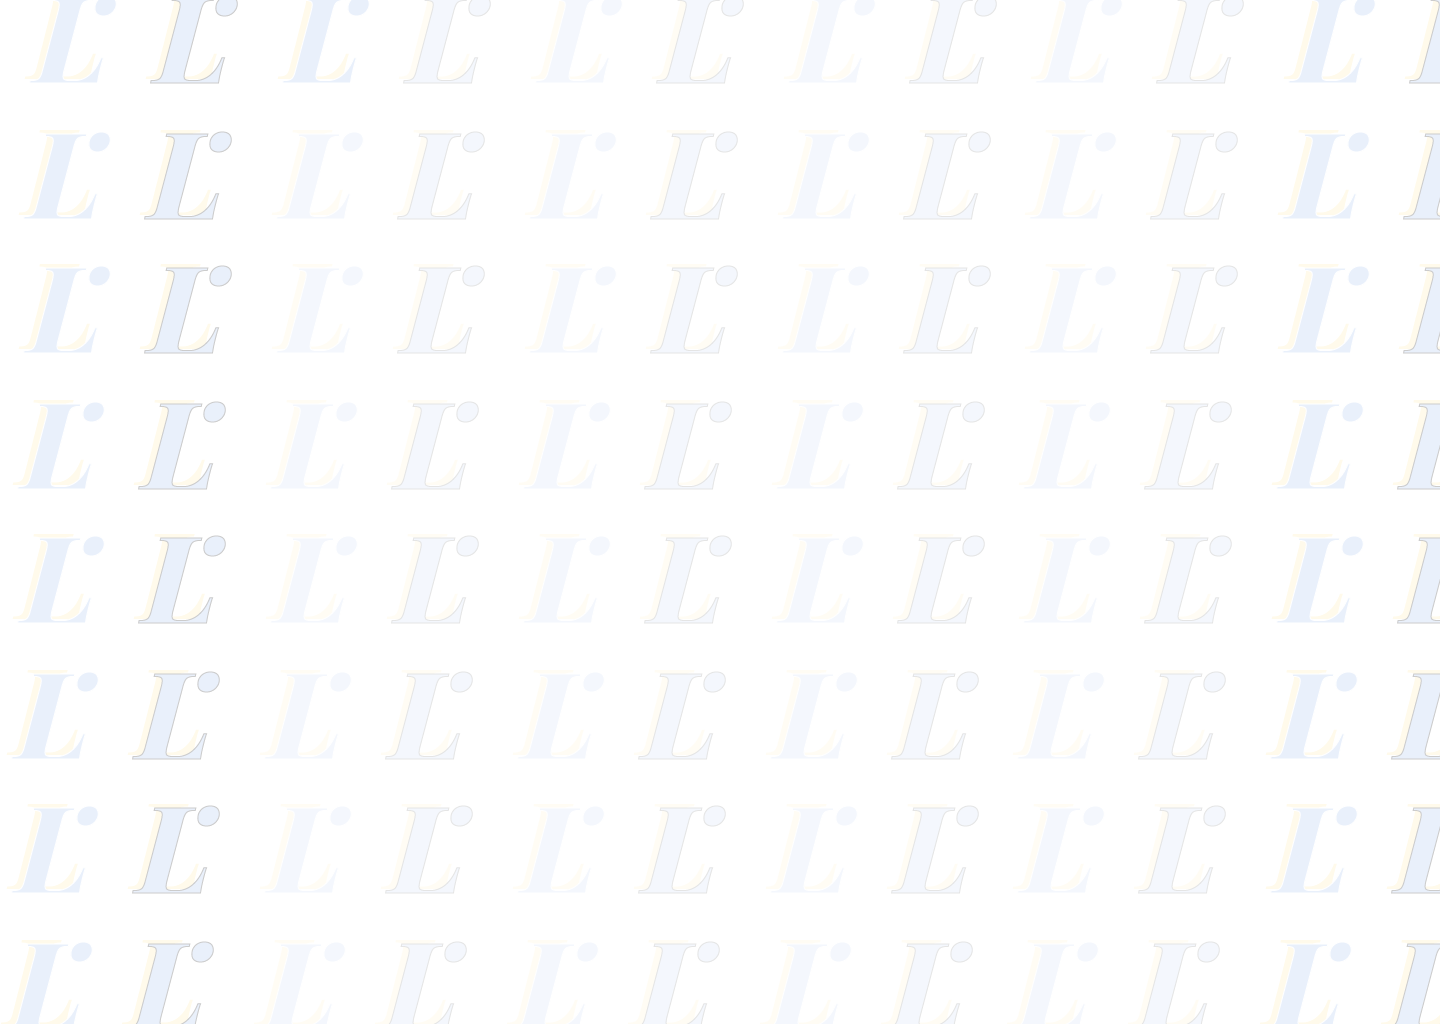
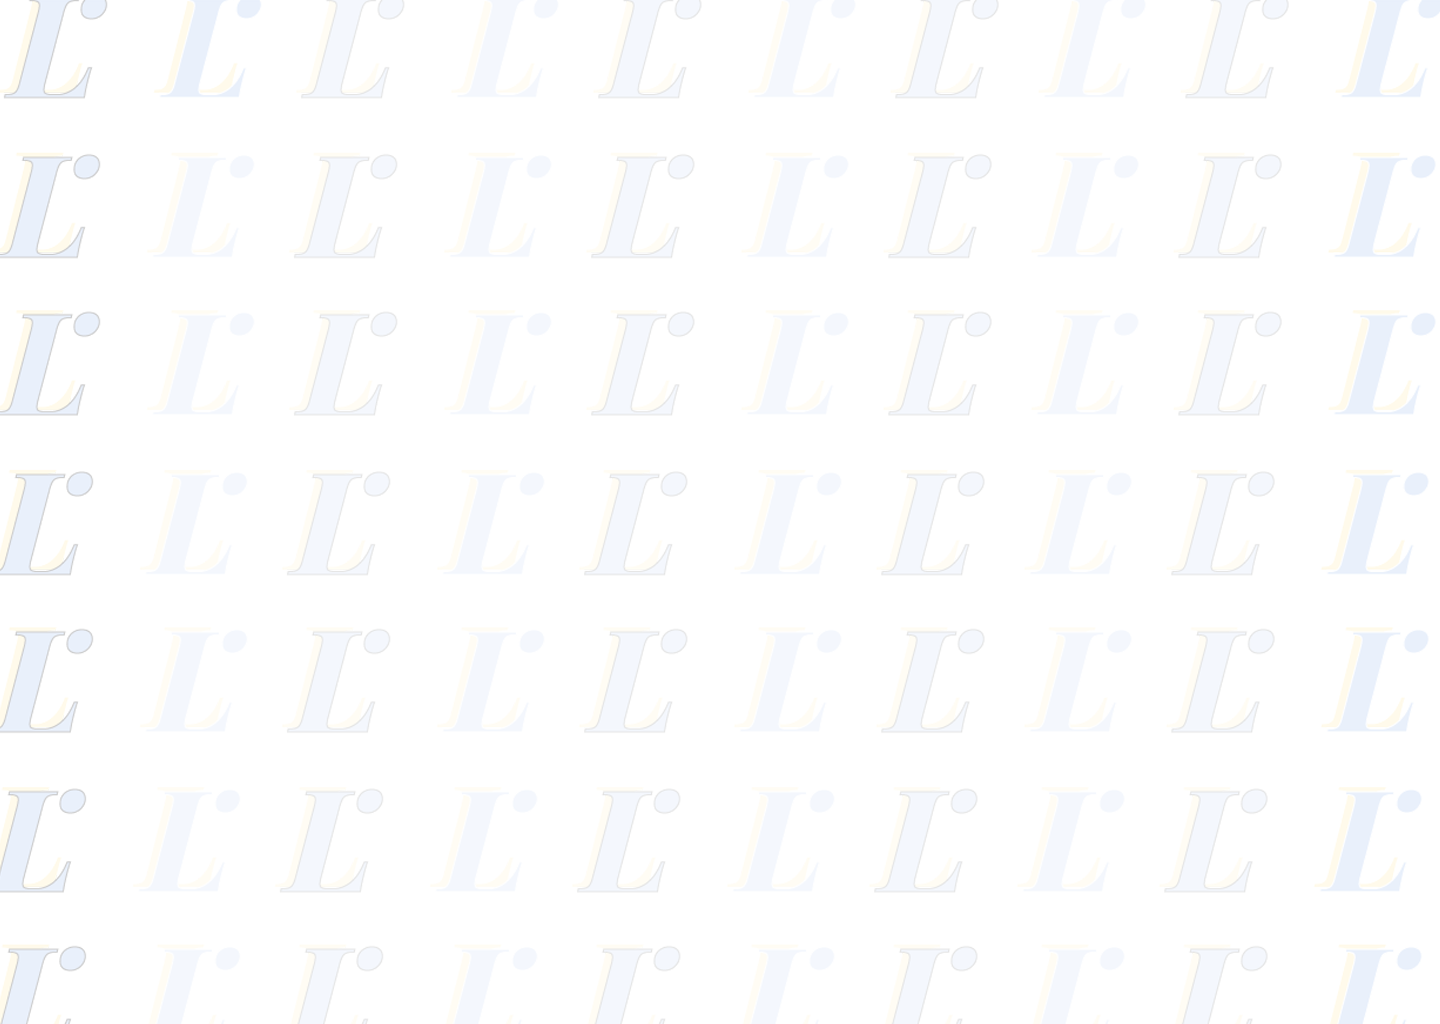
feat(login):create login page

diff --git a/client/src/pages/login/Login.jsx b/client/src/pages/login/Login.jsx
@@ -1,0 +1,47 @@
+import React from "react";
+import Lookist from "../../assets/lookist.png";
+
+export default function Login() {
+  return (
+    <div className="bg-l-pattern h-screen w-screen relative">
+    <div className="bg-white bg-opacity-30 rounded-xl flex items-center justify-center space-y-5 mx-auto h-[475px] w-[475px] absolute top-2/4 left-2/4 -translate-x-2/4 -translate-y-2/4"> 
+    <div className="Login">
+    <div><img src={Lookist}
+          alt="Logo lookist" class="mx-auto mb-0
+           object-contain scale-75 -translate-y-6"></img></div>
+        <p class="text-poppins text-judul2 text-white mt-0 pt-1 mb-2 text-center">
+          Please sign in to continue
+        </p>
+      <div class="mb-6 space">
+        <input
+          type="text"
+          class="form-control block w-full px-4 py-2 text-xl font-normal text-gray-700 bg-white bg-clip-padding border border-solid border-gray-300 rounded-lg transition ease-in-out m-0 focus:text-gray-700 focus:bg-white focus:border-blue-600 focus:outline-none"
+          id="exampleFormControlInput2"
+          placeholder="username"/>
+      </div>
+      <div class="mb-6">
+        <input
+          type="password"
+          class="form-control block w-full px-4 py-2 text-xl font-normal text-gray-700 bg-white bg-clip-padding border border-solid border-gray-300 rounded-lg transition ease-in-out m-0 focus:text-gray-700 focus:bg-white focus:border-blue-600 focus:outline-none"
+          id="exampleFormControlInput2"
+          placeholder="password"/>
+      </div>
+        <div class="text-center  lg:text-left">
+          <button type="button"
+          class="inline-block px-7 py-3 bg-biru-abu text-white font-poppins text-teks1 leading-snug uppercase rounded-lg shadow-md hover:bg-kuning hover:shadow-lg focus:bg-kuning focus:shadow-lg focus:outline-none focus:ring-0 active:bg-blue-800 active:shadow-lg transition duration-150 ease-in-out hover:text-biru-abu">
+          Login
+        </button>
+          <p class="text-white font-poppins text-teks1 mt-2 pt-1 mb-0">
+            Don't have an account?
+            <a
+              href="#!"
+              class="text-white font-poppins text-teks1 ml-2 hover:text-kuning focus:text-kuning transition duration-200 ease-in-out"> 
+              Register now!
+            </a>
+          </p>
+      </div>          
+    </div>
+    </div>
+    </div>
+  );
+}

diff --git a/client/src/App.jsx b/client/src/App.jsx
@@ -1,16 +1,17 @@
 import React from "react";
 // import Header from "./components/header/Header";
-import NavBar from "./components/navbar/NavBar";
+// import NavBar from "./components/navbar/NavBar";
 // import Sidebar from "./components/sidebar/Sidebar";
 // import Post from "./components/post/Post";
-import Home from "./pages/home/Home";
-// import Login from "./components/pages/login/Login";
+// import Home from "./pages/home/Home";
+import Login from "./pages/login/Login";
 
 function App() {
   return (
     <>
-      <NavBar />
-      <Home />
+      {/* <NavBar />
+      <Home /> */}
+      <Login/>
     </>
   );
 }

diff --git a/client/tailwind.config.js b/client/tailwind.config.js
@@ -17,9 +17,13 @@ module.exports = {
         poppins: "'Poppins', sans-serif",
         playfair: "'Playfair Display', serif;"
       },
-      fontSize: {
-        'judul2': ['30px','34px'],
-        'teks1': ['16px','20px']
+      fontSize:{
+        'judul1':['40px','45px'],
+        'judul2':['20px','22px'],
+        'teks1':['15px','17px']
+      },
+      backgroundImage: {
+        'l-pattern': "url('/src/assets/background.png')"
       }
     },
   },
